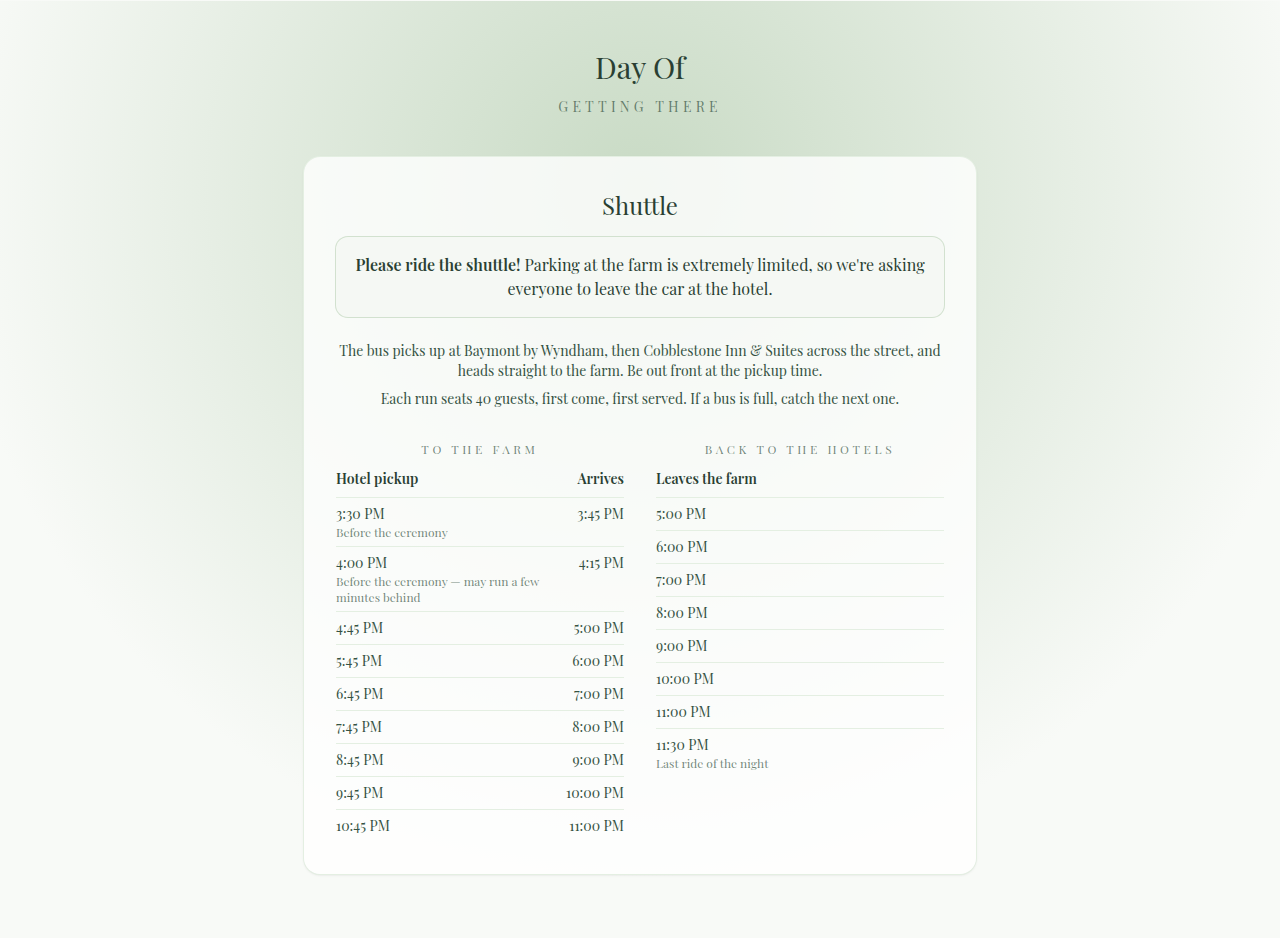
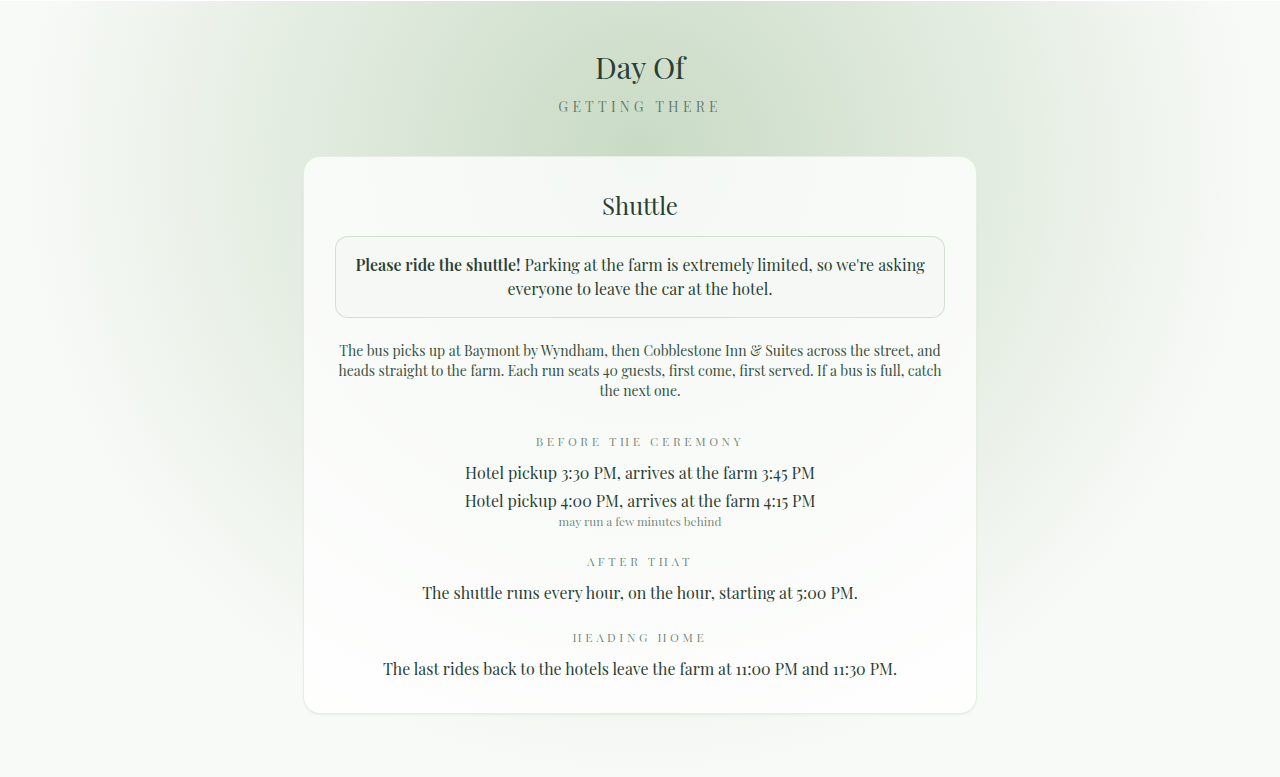
Simplify shuttle schedule to first two trips plus hourly service
Replaces the per-run timetables with the two pre-ceremony trips (3:30
and 4:00 pickups), a single "every hour, on the hour, starting at 5:00"
line, and the last rides home (11:00 and 11:30), so the site doesn't
commit to exact times for every run.

Claude-Session: https://claude.ai/code/session_01MzwUJukAJURS6s44trHLja

Changed region(s): [[0.2188, 0.0618, 0.7812, 0.8958]]

diff --git a/src/components/ShuttleSection.tsx b/src/components/ShuttleSection.tsx
@@ -1,6 +1,8 @@
 import { SHUTTLE } from '@/constants/shuttle';
 
 export const ShuttleSection: React.FC = () => {
+  const [firstRideHome, lastRideHome] = SHUTTLE.lastRidesHome;
+
   return (
     <div className="flex justify-center px-6">
       <div className="w-full max-w-2xl p-6 sm:p-8 rounded-2xl bg-white/80 shadow-sm ring-1 ring-sage-100 text-sage-700">
@@ -13,58 +15,35 @@ export const ShuttleSection: React.FC = () => {
 
         <p className="text-sm mt-6 text-center">
           The bus picks up at {SHUTTLE.stops[0]}, then {SHUTTLE.stops[1]} across the street, and heads
-          straight to the farm. Be out front at the pickup time.
-        </p>
-        <p className="text-sm mt-2 text-center">
-          Each run seats {SHUTTLE.capacity} guests, first come, first served. If a bus is full, catch the
-          next one.
+          straight to the farm. Each run seats {SHUTTLE.capacity} guests, first come, first served. If a bus
+          is full, catch the next one.
         </p>
 
-        <div className="mt-8 grid gap-8 sm:grid-cols-2">
+        <div className="mt-8 space-y-6 text-center">
           <div>
-            <h3 className="text-xs uppercase tracking-[0.3em] text-sage-700/70 text-center">To the farm</h3>
-            <table className="mt-3 w-full text-sm">
-              <thead>
-                <tr className="text-sage-800">
-                  <th className="text-left font-semibold pb-2">Hotel pickup</th>
-                  <th className="text-right font-semibold pb-2">Arrives</th>
-                </tr>
-              </thead>
-              <tbody>
-                {SHUTTLE.toFarm.map((run) => (
-                  <tr key={run.pickup} className="border-t border-sage-100">
-                    <td className="py-1.5">
-                      {run.pickup}
-                      {run.note && <span className="block text-xs text-sage-700/70">{run.note}</span>}
-                    </td>
-                    <td className="py-1.5 text-right align-top">{run.arrival}</td>
-                  </tr>
-                ))}
-              </tbody>
-            </table>
+            <h3 className="text-xs uppercase tracking-[0.3em] text-sage-700/70">Before the ceremony</h3>
+            <ul className="mt-3 space-y-1 text-sage-800">
+              {SHUTTLE.preCeremony.map((trip) => (
+                <li key={trip.pickup}>
+                  Hotel pickup {trip.pickup}, arrives at the farm {trip.arrival}
+                  {trip.note && <span className="block text-xs text-sage-700/70">{trip.note}</span>}
+                </li>
+              ))}
+            </ul>
           </div>
 
           <div>
-            <h3 className="text-xs uppercase tracking-[0.3em] text-sage-700/70 text-center">Back to the hotels</h3>
-            <table className="mt-3 w-full text-sm">
-              <thead>
-                <tr className="text-sage-800">
-                  <th className="text-left font-semibold pb-2">Leaves the farm</th>
-                </tr>
-              </thead>
-              <tbody>
-                {SHUTTLE.toHotels.map((time, index) => (
-                  <tr key={time} className="border-t border-sage-100">
-                    <td className="py-1.5">
-                      {time}
-                      {index === SHUTTLE.toHotels.length - 1 && (
-                        <span className="block text-xs text-sage-700/70">Last ride of the night</span>
-                      )}
-                    </td>
-                  </tr>
-                ))}
-              </tbody>
-            </table>
+            <h3 className="text-xs uppercase tracking-[0.3em] text-sage-700/70">After that</h3>
+            <p className="mt-3 text-sage-800">
+              The shuttle runs every hour, on the hour, starting at {SHUTTLE.hourlyFrom}.
+            </p>
+          </div>
+
+          <div>
+            <h3 className="text-xs uppercase tracking-[0.3em] text-sage-700/70">Heading home</h3>
+            <p className="mt-3 text-sage-800">
+              The last rides back to the hotels leave the farm at {firstRideHome} and {lastRideHome}.
+            </p>
           </div>
         </div>
       </div>

diff --git a/src/components/ShuttleSection.test.tsx b/src/components/ShuttleSection.test.tsx
@@ -1,46 +1,26 @@
 import { describe, it, expect } from 'vitest';
 import { render, screen } from '@testing-library/react';
 import { ShuttleSection } from './ShuttleSection';
-import { SHUTTLE } from '@/constants/shuttle';
-
-// "4:45\u00A0PM" → minutes since midnight, so ordering can be checked numerically.
-const toMinutes = (time: string): number => {
-  const [, h, m] = time.match(/^(\d{1,2}):(\d{2})\u00A0PM$/) ?? [];
-  expect(h, `unparseable time "${time}"`).toBeDefined();
-  return ((Number(h) % 12) + 12) * 60 + Number(m);
-};
-
-const isStrictlyIncreasing = (times: string[]) =>
-  times.map(toMinutes).every((t, i, all) => i === 0 || t > all[i - 1]);
 
 describe('ShuttleSection', () => {
   it('shows the parking warning, stop order, and seat limit', () => {
     render(<ShuttleSection />);
 
-    expect(screen.getByText('Please ride the shuttle!')).toBeInTheDocument();
     expect(screen.getByText(/Parking at the farm is extremely limited/).textContent).toMatch(/^Please ride the shuttle! Parking/);
     expect(screen.getByText(/picks up at Baymont by Wyndham, then Cobblestone Inn & Suites/)).toBeInTheDocument();
     expect(screen.getByText(/seats 40 guests/)).toBeInTheDocument();
   });
 
-  it('renders a row for every run in both directions', () => {
+  it('spells out only the two pre-ceremony trips, then the hourly service and last rides', () => {
     render(<ShuttleSection />);
 
-    const [toFarm, toHotels] = screen.getAllByRole('table');
-    // +1 for each header row
-    expect(toFarm.querySelectorAll('tr')).toHaveLength(SHUTTLE.toFarm.length + 1);
-    expect(toHotels.querySelectorAll('tr')).toHaveLength(SHUTTLE.toHotels.length + 1);
     // Raw textContent: toHaveTextContent would normalize the non-breaking spaces away
-    const rows = (table: HTMLElement) => [...table.querySelectorAll('tbody tr')].map((tr) => tr.textContent);
-    expect(rows(toFarm)[0]).toBe('3:30\u00A0PMBefore the ceremony3:45\u00A0PM');
-    expect(rows(toHotels).at(-1)).toBe('11:30\u00A0PMLast ride of the night');
-  });
-
-  it('keeps the schedule in chronological order with a 15-minute ride', () => {
-    expect(isStrictlyIncreasing(SHUTTLE.toFarm.map((run) => run.pickup))).toBe(true);
-    expect(isStrictlyIncreasing(SHUTTLE.toHotels)).toBe(true);
-    SHUTTLE.toFarm.forEach((run) => {
-      expect(toMinutes(run.arrival) - toMinutes(run.pickup)).toBe(15);
-    });
+    const trips = screen.getAllByRole('listitem').map((li) => li.textContent);
+    expect(trips).toEqual([
+      'Hotel pickup 3:30\u00A0PM, arrives at the farm 3:45\u00A0PM',
+      'Hotel pickup 4:00\u00A0PM, arrives at the farm 4:15\u00A0PMmay run a few minutes behind',
+    ]);
+    expect(screen.getByText(/every hour, on the hour/).textContent).toContain('starting at 5:00\u00A0PM');
+    expect(screen.getByText(/last rides back to the hotels/).textContent).toContain('at 11:00\u00A0PM and 11:30\u00A0PM');
   });
 });

diff --git a/src/constants/shuttle.ts b/src/constants/shuttle.ts
@@ -1,4 +1,4 @@
-export interface ShuttleRun {
+export interface ShuttleTrip {
   pickup: string;
   arrival: string;
   note?: string;
@@ -7,34 +7,19 @@ export interface ShuttleRun {
 export interface ShuttleDetails {
   stops: string[];
   capacity: number;
-  toFarm: ShuttleRun[];
-  toHotels: string[];
+  // The only trips with exact times; everything after runs hourly.
+  preCeremony: ShuttleTrip[];
+  hourlyFrom: string;
+  lastRidesHome: string[];
 }
 
 export const SHUTTLE: ShuttleDetails = {
   stops: ["Baymont by Wyndham", "Cobblestone Inn & Suites", "The farm"],
   capacity: 40,
-  // Hotel pickup (Baymont first, then Cobblestone) → drop-off at the farm.
-  toFarm: [
-    { pickup: "3:30\u00A0PM", arrival: "3:45\u00A0PM", note: "Before the ceremony" },
-    { pickup: "4:00\u00A0PM", arrival: "4:15\u00A0PM", note: "Before the ceremony — may run a few minutes behind" },
-    { pickup: "4:45\u00A0PM", arrival: "5:00\u00A0PM" },
-    { pickup: "5:45\u00A0PM", arrival: "6:00\u00A0PM" },
-    { pickup: "6:45\u00A0PM", arrival: "7:00\u00A0PM" },
-    { pickup: "7:45\u00A0PM", arrival: "8:00\u00A0PM" },
-    { pickup: "8:45\u00A0PM", arrival: "9:00\u00A0PM" },
-    { pickup: "9:45\u00A0PM", arrival: "10:00\u00A0PM" },
-    { pickup: "10:45\u00A0PM", arrival: "11:00\u00A0PM" },
+  preCeremony: [
+    { pickup: "3:30\u00A0PM", arrival: "3:45\u00A0PM" },
+    { pickup: "4:00\u00A0PM", arrival: "4:15\u00A0PM", note: "may run a few minutes behind" },
   ],
-  // Departures from the farm back to both hotels.
-  toHotels: [
-    "5:00\u00A0PM",
-    "6:00\u00A0PM",
-    "7:00\u00A0PM",
-    "8:00\u00A0PM",
-    "9:00\u00A0PM",
-    "10:00\u00A0PM",
-    "11:00\u00A0PM",
-    "11:30\u00A0PM",
-  ],
+  hourlyFrom: "5:00\u00A0PM",
+  lastRidesHome: ["11:00\u00A0PM", "11:30\u00A0PM"],
 };

diff --git a/src/constants/faqs.ts b/src/constants/faqs.ts
@@ -16,7 +16,7 @@ export const FAQS: FAQ[] = [
   },
   {
     question: "Can I drive to the farm?",
-    answer: `Please don't if you can avoid it — parking at the farm is extremely limited. A shuttle runs between the Baymont and Cobblestone and the farm before the ceremony and every hour after, with the last ride back to the hotels at ${SHUTTLE.toHotels.at(-1)}.`,
+    answer: `Please don't if you can avoid it — parking at the farm is extremely limited. A shuttle runs between the Baymont and Cobblestone and the farm before the ceremony and every hour after, with the last ride back to the hotels at ${SHUTTLE.lastRidesHome.at(-1)}.`,
     link: { href: "/#DayOf", label: "See the shuttle schedule →" },
   },
   {

diff --git a/AGENTS.md b/AGENTS.md
@@ -23,7 +23,7 @@ Wedding website (wedding date: October 10, 2026, hardcoded in `src/utils/dateUti
 `src/app/page.tsx` (server component) is the main landing page. It composes presentational components fed entirely by typed constants:
 
 - `src/constants/events.ts` — `EVENTS` record (ceremony, reception) rendered via `EventSection`; also exports `NAV_LINKS`
-- `src/constants/shuttle.ts` — `SHUTTLE` schedule (stops, capacity, run times) rendered via `ShuttleSection` in the Day Of section
+- `src/constants/shuttle.ts` — `SHUTTLE` details (stops, capacity, the two pre-ceremony trips, hourly start, last rides home) rendered via `ShuttleSection` in the Day Of section
 - `src/constants/hotels.ts` — `HOTELS` record rendered via `TravelSection`
 - `src/constants/faqs.ts` — `FAQS` array rendered via `FAQSection`
 
